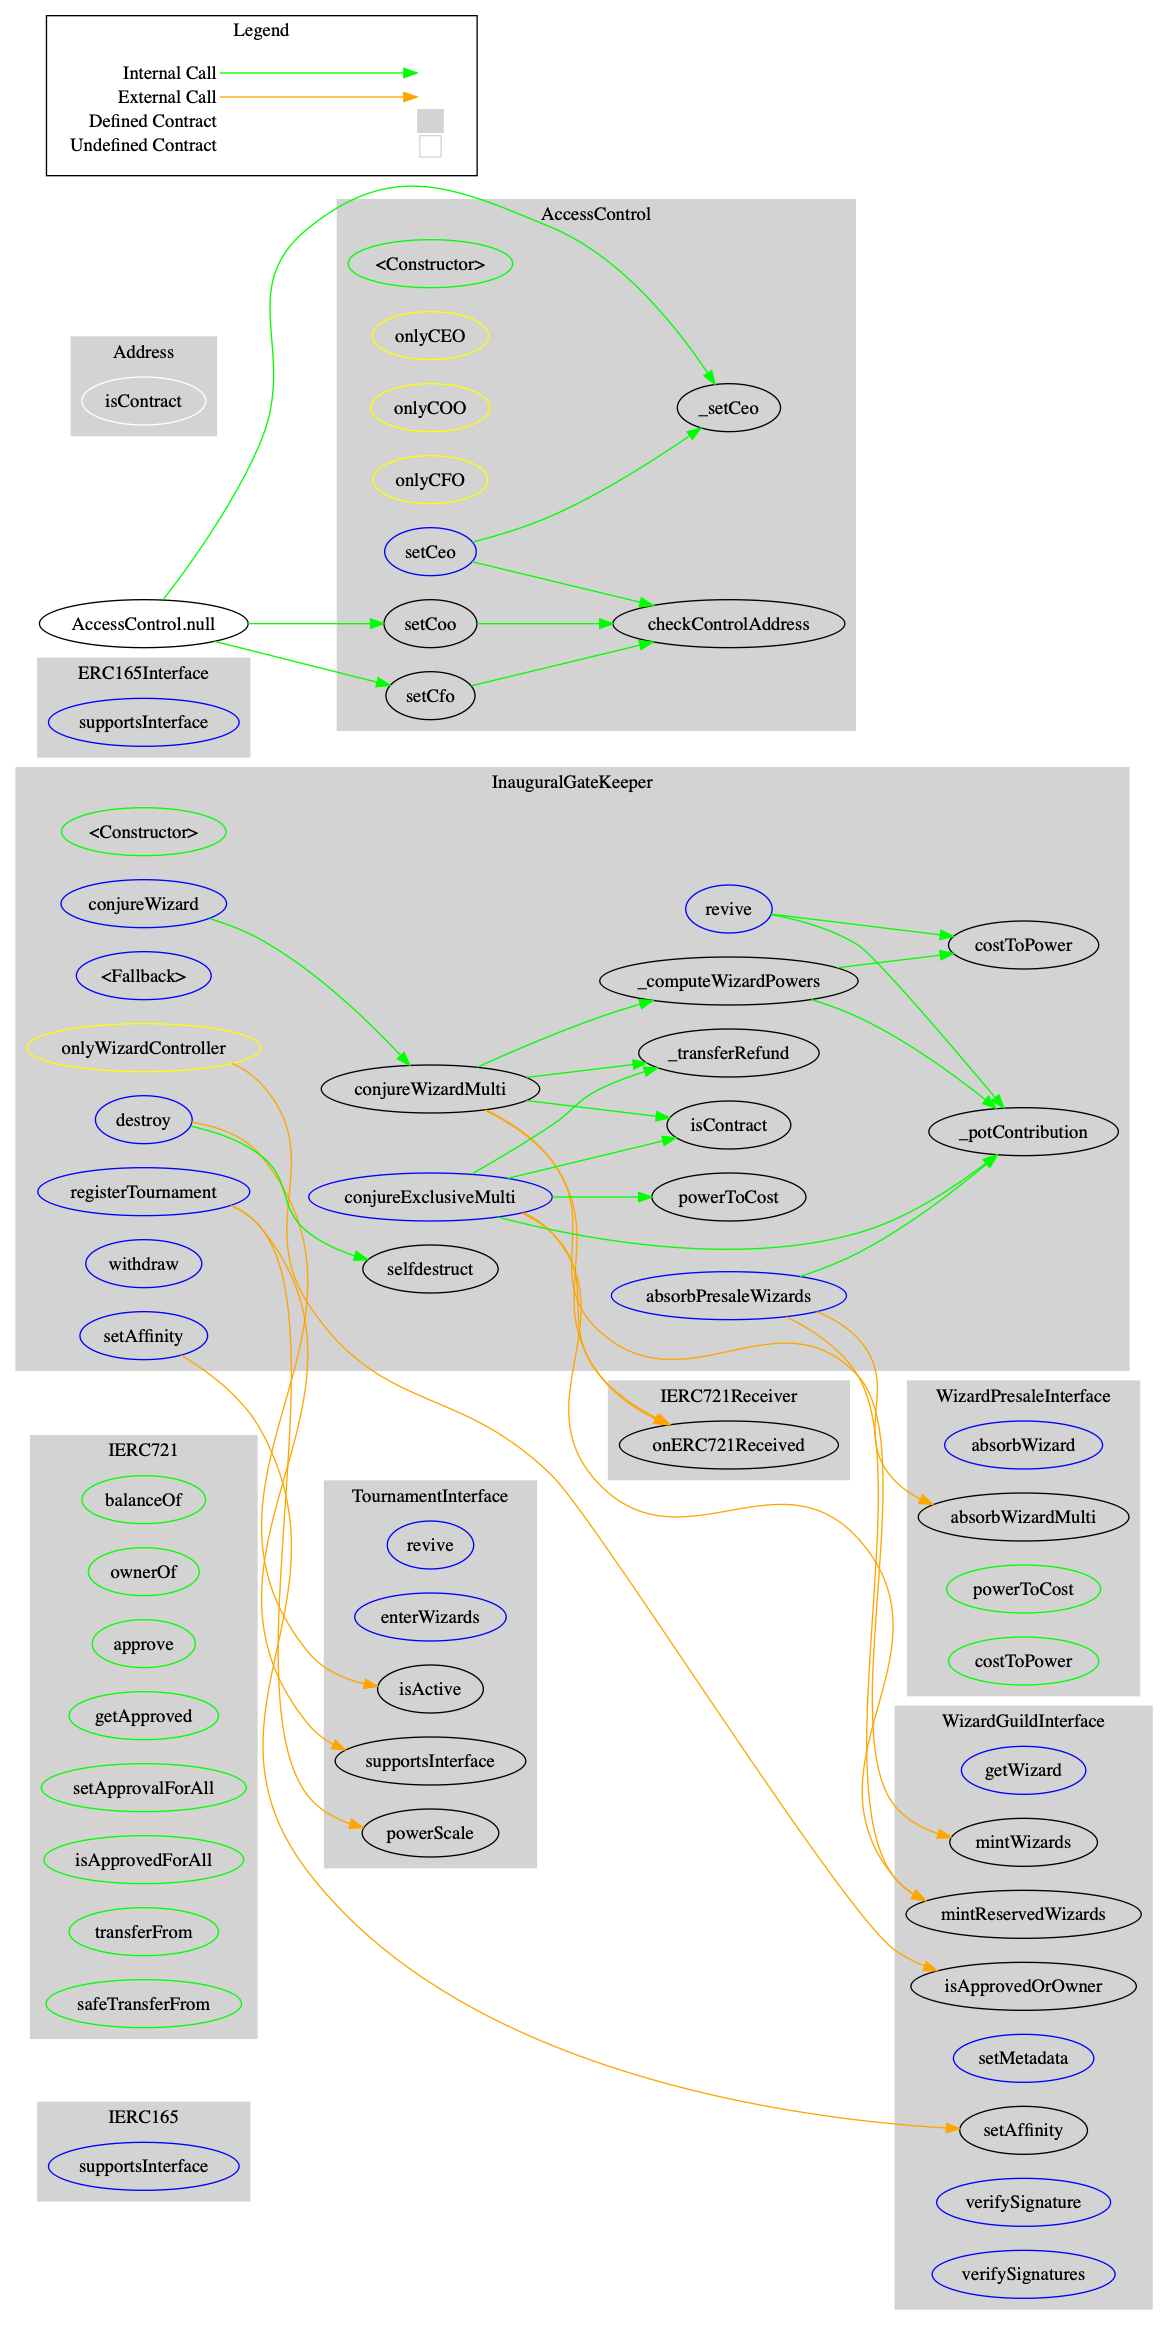
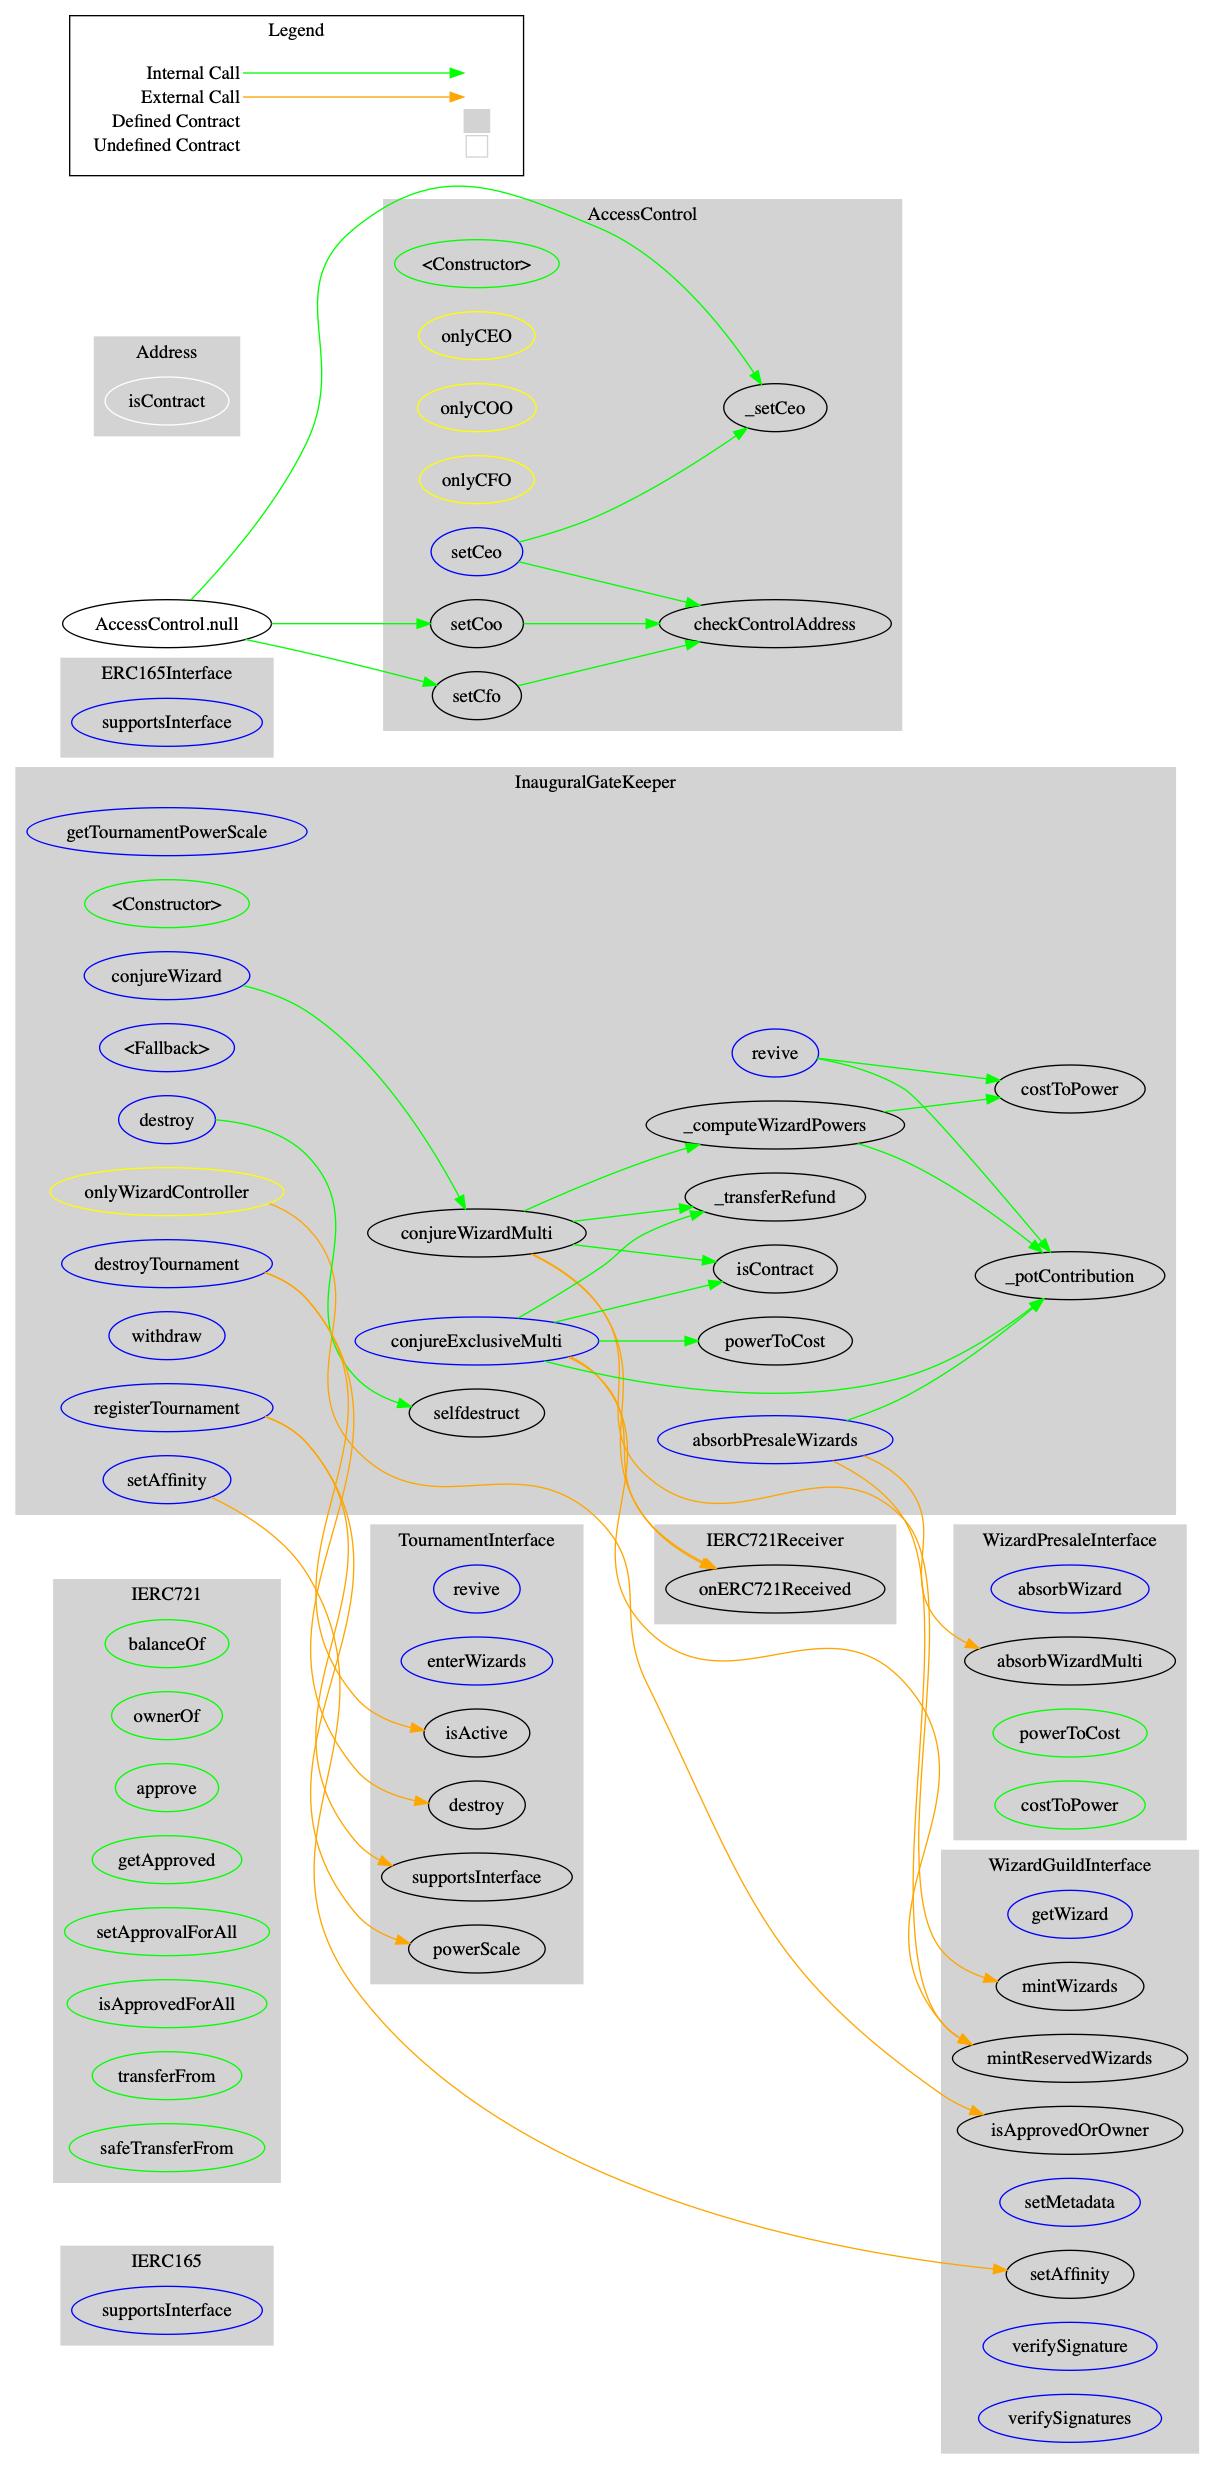
Update graphs

diff --git a/CheezeWizardReport.md b/CheezeWizardReport.md
@@ -5,11 +5,11 @@
 
 |  File Name  |  SHA-1 Hash  |
 |-------------|--------------|
-| contracts/BasicTournament.sol | c99c11a12fd7166ba11a42138bd2990af2921440 |
-| contracts/InauguralGateKeeper.sol | ad4dd5419361f2f9496622959d6994068947d23d |
-| contracts/ThreeAffinityDuelResolver.sol | ce871926c5c8f3160dee2abce0e226ea8a793c0c |
-| contracts/WizardGuild.sol | dce5e0385d22f82e7e4e7244c598f70ab989f09f |
-| contracts/WizardPresale.sol | dd9760ee66f9fc9971ec36b2212b34dfd47ca72d |
+| contracts/BasicTournament.sol | 8e7c7dc6ab38341c38eb65da2a6a5c6a949484d6 |
+| contracts/InauguralGateKeeper.sol | 3f0eb94420fa8e21fded37a9e3701bfc0dbd7494 |
+| contracts/ThreeAffinityDuelResolver.sol | 7fe11f95f7ea25633ef5afa3477f32733d4d4869 |
+| contracts/WizardGuild.sol | 43eced2e58a27cf76d4041f40179fb6f37579e33 |
+| contracts/WizardPresale.sol | 1f20f65c634cb714db9574952a70695b75afdb12 |
 
 
 ### Contracts Description Table
@@ -57,7 +57,7 @@
 ||||||
 | **DuelResolverInterface** | Implementation | DuelResolverInterfaceId, ERC165Interface |||
 | └ | isValidMoveSet | Public ❗ |   |NO❗ |
-| └ | isValidAffinity | Public ❗ |   |NO❗ |
+| └ | isValidAffinity | External ❗ |   |NO❗ |
 | └ | resolveDuel | Public ❗ |   |NO❗ |
 ||||||
 | **AccessControl** | Implementation |  |||
@@ -69,6 +69,8 @@
 | └ | setCfo | Public ❗ | 🛑  | onlyCEO |
 ||||||
 | **TournamentTimeAbstract** | Implementation | AccessControl |||
+| └ | getTimeParameters | External ❗ |   |NO❗ |
+| └ | getBlueMoldParameters | External ❗ |   |NO❗ |
 | └ | \<Constructor\> | Internal 🔒 | 🛑  | AccessControl |
 | └ | _isRevivalPhase | Internal 🔒 |   | |
 | └ | _isEliminationPhase | Internal 🔒 |   | |
@@ -81,8 +83,8 @@
 | └ | _ascensionDuelTimeout | Internal 🔒 |   | |
 | └ | canChallengeAscendingWizard | Internal 🔒 |   | |
 | └ | _blueMoldPower | Internal 🔒 |   | |
-| └ | pause | Public ❗ | 🛑  | onlyCOO |
-| └ | isPaused | Public ❗ |   |NO❗ |
+| └ | pause | External ❗ | 🛑  | onlyCOO |
+| └ | isPaused | External ❗ |   |NO❗ |
 ||||||
 | **TournamentInterfaceId** | Implementation |  |||
 ||||||
@@ -91,8 +93,11 @@
 | └ | enterWizards | External ❗ |  💵 |NO❗ |
 | └ | isActive | External ❗ |   |NO❗ |
 | └ | powerScale | External ❗ |   |NO❗ |
+| └ | destroy | External ❗ | 🛑  |NO❗ |
 ||||||
 | **BasicTournament** | Implementation | TournamentInterface, TournamentTimeAbstract, WizardConstants, DuelResolverInterfaceId |||
+| └ | getRemainingWizards | External ❗ |   |NO❗ |
+| └ | getAscendingWizardId | External ❗ |   |NO❗ |
 | └ | \<Constructor\> | Public ❗ | 🛑  | TournamentTimeAbstract |
 | └ | \<Fallback\> | External ❗ |  💵 |NO❗ |
 | └ | supportsInterface | External ❗ |   |NO❗ |
@@ -111,7 +116,7 @@
 | └ | _checkChallenge | Internal 🔒 |   | |
 | └ | challengeAscending | External ❗ | 🛑  | duringFightWindow onlyWizardController |
 | └ | acceptAscensionChallenge | External ❗ | 🛑  | duringFightWindow onlyWizardController |
-| └ | completeAscension | Public ❗ | 🛑  | duringResolutionWindow |
+| └ | completeAscension | External ❗ | 🛑  | duringResolutionWindow |
 | └ | oneSidedCommit | External ❗ | 🛑  | duringFightWindow onlyWizardController exists |
 | └ | cancelCommitment | External ❗ | 🛑  | onlyWizardController |
 | └ | doubleCommit | External ❗ | 🛑  | duringFightWindow |
@@ -168,6 +173,7 @@
 | └ | enterWizards | External ❗ |  💵 |NO❗ |
 | └ | isActive | External ❗ |   |NO❗ |
 | └ | powerScale | External ❗ |   |NO❗ |
+| └ | destroy | External ❗ | 🛑  |NO❗ |
 ||||||
 | **AccessControl** | Implementation |  |||
 | └ | \<Constructor\> | Public ❗ | 🛑  | |
@@ -190,6 +196,7 @@
 | └ | isContract | Internal 🔒 |   | |
 ||||||
 | **InauguralGateKeeper** | Implementation | AccessControl, WizardConstants, Address, WizardGuildInterfaceId, TournamentInterfaceId |||
+| └ | getTournamentPowerScale | External ❗ |   |NO❗ |
 | └ | \<Constructor\> | Public ❗ | 🛑  | AccessControl |
 | └ | \<Fallback\> | External ❗ |  💵 |NO❗ |
 | └ | registerTournament | External ❗ | 🛑  | onlyCOO |
@@ -205,6 +212,7 @@
 | └ | _potContribution | Internal 🔒 |   | |
 | └ | withdraw | External ❗ | 🛑  | onlyCFO |
 | └ | destroy | External ❗ | 🛑  | onlyCOO |
+| └ | destroyTournament | External ❗ | 🛑  | onlyCOO |
 | └ | _transferRefund | Private 🔐 | 🛑  | |
 ||||||
 | **ERC165Interface** | Interface |  |||
@@ -214,7 +222,7 @@
 ||||||
 | **DuelResolverInterface** | Implementation | DuelResolverInterfaceId, ERC165Interface |||
 | └ | isValidMoveSet | Public ❗ |   |NO❗ |
-| └ | isValidAffinity | Public ❗ |   |NO❗ |
+| └ | isValidAffinity | External ❗ |   |NO❗ |
 | └ | resolveDuel | Public ❗ |   |NO❗ |
 ||||||
 | **ThreeAffinityDuelResolver** | Implementation | DuelResolverInterface |||
@@ -230,7 +238,7 @@
 | **WizardConstants** | Implementation |  |||
 ||||||
 | **ERC165Query** | Implementation |  |||
-| └ | doesContractImplementInterface | Public ❗ |   |NO❗ |
+| └ | doesContractImplementInterface | Internal 🔒 |   | |
 | └ | noThrowCall | Internal 🔒 |   | |
 ||||||
 | **IERC165** | Interface |  |||
@@ -303,6 +311,7 @@
 | └ | isValidSignature | External ❗ |   |NO❗ |
 ||||||
 | **WizardGuild** | Implementation | AccessControl, WizardNFT, WizardGuildInterface, ERC165Query |||
+| └ | getNextWizardIndex | External ❗ |   |NO❗ |
 | └ | \<Constructor\> | Public ❗ | 🛑  | AccessControl |
 | └ | openSeries | External ❗ | 🛑  | onlyCOO |
 | └ | closeSeries | External ❗ | 🛑  | duringSeries |
@@ -312,7 +321,7 @@
 | └ | mintReservedWizards | External ❗ | 🛑  | onlyMinter |
 | └ | setMetadata | External ❗ | 🛑  | duringSeries |
 | └ | setAffinity | External ❗ | 🛑  | onlyMinter |
-| └ | isApprovedOrOwner | Public ❗ |   |NO❗ |
+| └ | isApprovedOrOwner | External ❗ |   |NO❗ |
 | └ | verifySignature | Public ❗ |   |NO❗ |
 | └ | verifySignatures | External ❗ |   |NO❗ |
 | └ | _validSignatureForAddress | Internal 🔒 |   | |
